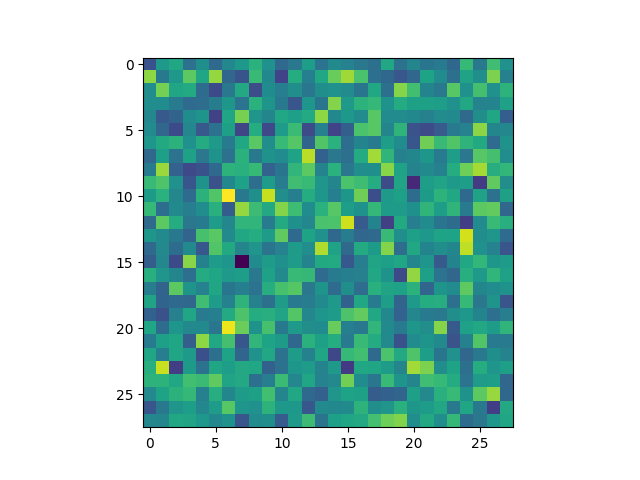
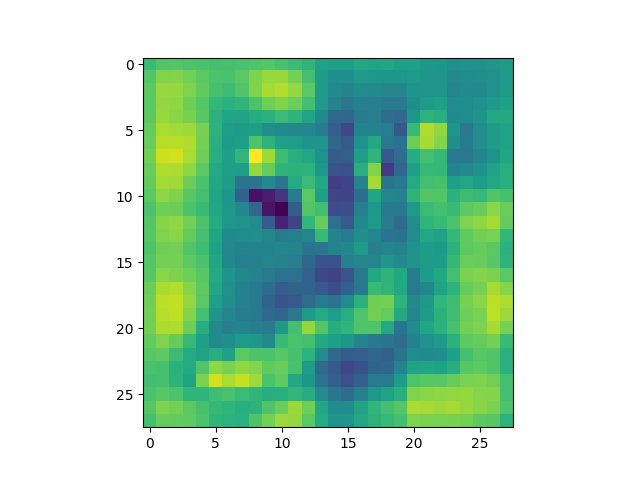
last input training and average plot

diff --git a/FedMD_clean/Input_training.py b/FedMD_clean/Input_training.py
@@ -2,37 +2,69 @@ import pickle
 import numpy as np
 import matplotlib.pyplot as plt
 import tensorflow as tf
+from Neural_Networks import remove_last_layer
+from PIL import Image
+from data_utils import load_MNIST_data, load_EMNIST_data
 
+
+X_train_MNIST, y_train_MNIST, X_test_MNIST, y_test_MNIST = load_MNIST_data(standarized = True, verbose = True)
+img = X_train_MNIST[0]
 
 file = open("result_FEMNIST_imbalanced/attacker.pkl","rb")
 model = pickle.load(file)
 
 
-img = (np.random.standard_normal([28, 28]) )
+#img = (np.random.standard_normal([28, 28]) )
+
+
+
+
+
 im = img[np.newaxis , ...]
+
+
+
 _ = plt.imshow(img)
 plt.show()
 plt.savefig("initial_input.png")
 target_class = [13]
-learning_rate = 10
-pixel_step = 10                                                                                                                                                                                                                                                                                                                                                                                                                                                                                                                                                                                                                                                                                                                                                                                                                                                                                                                                           
+learning_rate = 1
+pixel_step = 1                                                                                                                                                                                                                                                                                                                                                                                                                                                                                                                                                                                                                                                                                                                                                                                                                                                                                                                                        
+model_A = remove_last_layer(model, loss="mean_absolute_error")
 
-loss = tf.keras.losses.SparseCategoricalCrossentropy()
+print(np.mean(model_A.predict(im)))
 
-for k in range(10):
+loss = tf.keras.losses.SparseCategoricalCrossentropy() 
+new_loss = 5
+for k in range (10):
     for i in range(28):
         for j in range(28):
             y_pred = [model.predict(im, verbose=None)[0]]
-            old_loss = loss(target_class, y_pred).numpy()
-            print("old loss: ", old_loss)
+            old_loss = loss(target_class, y_pred).numpy() - (np.mean(model_A.predict(im, verbose=None))/4)
+            #print("old loss: ", old_loss)
             im[0][i][j] += pixel_step
             y_pred = [model.predict(im , verbose=None)[0]]
-            new_loss = loss(target_class, y_pred).numpy()
+            new_loss = loss(target_class, y_pred).numpy() - (np.mean(model_A.predict(im, verbose=None))/4)
             print("new loss: ", new_loss)
             im[0][i][j] -= ( pixel_step + (new_loss - old_loss) * learning_rate )
-    print(new_loss)
+    #print(new_loss)
 
-img = im[0]
-_ = plt.imshow(img)
-plt.show()
-plt.savefig("last_input.png")
+    img = im[0]
+    _ = plt.imshow(img)
+    plt.show()
+    plt.savefig("last_input.png")
+
+
+
+e = []
+for i in range(16):
+  e.append(i+1)
+
+fig = plt.figure()
+ax1 = plt.subplot( 1,1,1 )
+ax1.minorticks_on()
+ax1.grid()
+ax1.set_xlabel( 'classes' )
+ax1.set_ylabel( 'logits' )
+ax1.bar(e,model_A.predict(im)[0])
+plt.savefig("logits.png")

diff --git a/FedMD_Unlabeled/FedMD_clean/Plot.py b/FedMD_Unlabeled/FedMD_clean/Plot.py
@@ -49,19 +49,21 @@ for i in range(21):
 
   epochs.append(i+1)
 
+#print(np.array(data).shape)
 
 
-
+dat  = []
 
 for erf in range(10):
+  dat.append(np.array(data[erf]))
+  #ax.plot(epochs,np.array(data[erf]).mean(axis = 0), '-o', label="model {0} ".format(erf))
 
- ax.plot(epochs,np.array(data[erf]), '-o', label="model {0} ".format(erf))
-
+ax.plot(epochs,(np.array(dat)).mean(axis = 0), '-o', label="Average Accuracy")
 ax.legend(loc='lower right')
 
 
 
-plt.savefig("Collaboration_Performance.png")
+plt.savefig("Collaboration_Performance1.png")
 
 
 
